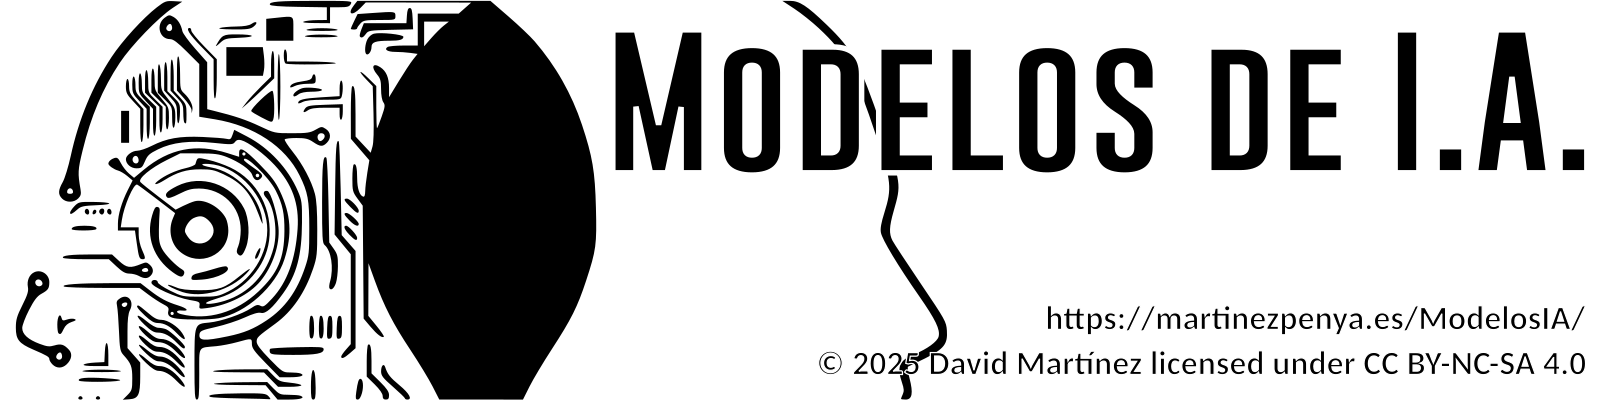
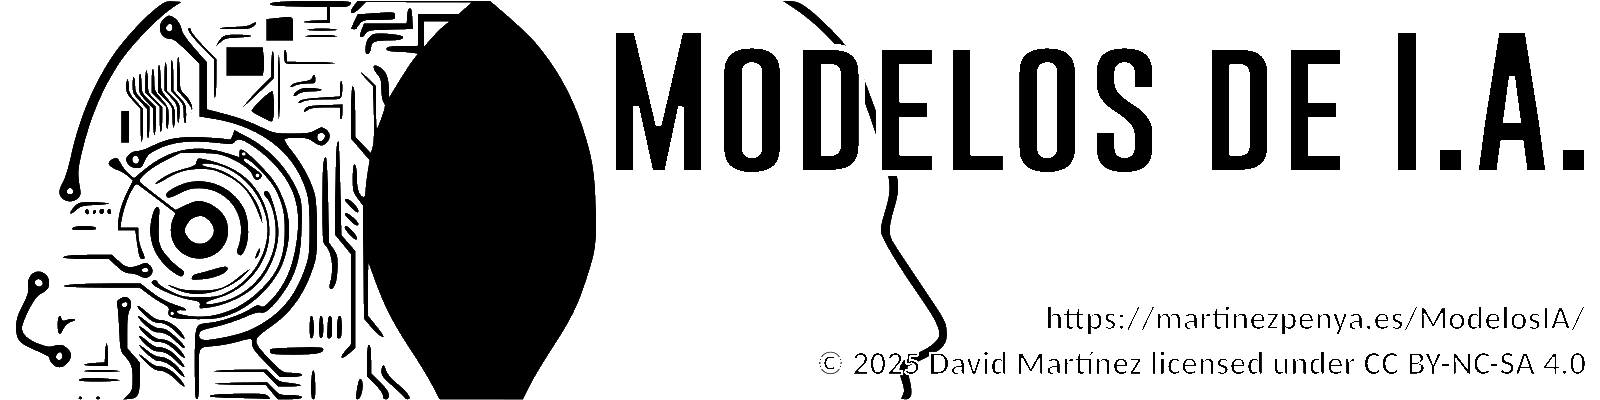
Actualizar fuentes.md, rediseñar sobremi.md y aclarar el header en modo oscuro
- fuentes.md: reorganizado por unidad (estaba desactualizado desde antes de
  las fusiones de UD03-UD06); añadido Claude Code como herramienta usada
  en la redacción y el control de calidad del módulo.
- sobremi.md: cabecera con foto y nombre juntos, centrados, en bloque
  horizontal; contacto en tarjetas (grid cards) en vez de lista suelta.
- portada.png: reborde blanco de 2px en las cabezas/circuito de fondo,
  igual que ya tenía el texto, para que se lean en modo oscuro.

Claude-Session: https://claude.ai/code/session_01ECLqWLySQwghUsa4U2kLha

diff --git a/docs/css/extra.css b/docs/css/extra.css
@@ -64,6 +64,37 @@ img {
         page-break-inside: avoid;
     }
 }
+
+/* Página "Sobre mí": bloque de cabecera centrado, foto a la izquierda del texto. */
+.profile-header {
+    display: flex;
+    flex-direction: row;
+    justify-content: center;
+    align-items: center;
+    gap: 1.5rem;
+    margin-bottom: 1.5rem;
+}
+
+.profile-text {
+    text-align: left;
+}
+
+.profile-header h2 {
+    margin-top: 0;
+    margin-bottom: 0.3rem;
+}
+
+.profile-header p {
+    margin: 0.2rem 0;
+}
+
+.profile-pic {
+    width: 160px;
+    height: auto;
+    border-radius: 12px;
+    box-shadow: 0 2px 10px rgba(0, 0, 0, 0.15);
+}
+
 /*
 :root {
     --md-primary-fg-color: #60102f;

diff --git a/docs/fuentes.md b/docs/fuentes.md
@@ -1,34 +1,142 @@
 # Fuentes de información
 
+Fuentes citadas a lo largo del módulo, agrupadas por unidad. Las generales se usan en más de una
+unidad o no son específicas de ninguna; cada bloque de unidad reproduce las referencias que ya
+aparecen al final de su página de teoría.
+
+## Generales del curso
+
 - [Wikipedia](https://es.wikipedia.org)
-
-- [GhatGPT](https://chat.openai.com)
-
+- [ChatGPT](https://chatgpt.com/)
+- [DeepSeek](https://www.deepseek.com/)
+- [Claude Code (Anthropic)](https://claude.com/claude-code) — usado en la redacción, investigación y
+  control de calidad de este módulo (fusión de contenidos, ejercicios, talleres, diapositivas y
+  scripts de verificación)
 - [Modelos de Inteligencia Artificial (Ed. Marcombo)](https://www.marcombo.com/modelos-de-inteligencia-artificial-9788426734419/)
-
-- https://iep.utm.edu/artificial-intelligence/
-
+- [Internet Encyclopedia of Philosophy · Artificial Intelligence](https://iep.utm.edu/artificial-intelligence/)
 - Materiales MIA curso MEC-20230524
-
-- https://www.gartner.com/en/newsroom/press-releases/2021-09-29-gartner-finds-33-percent-of-technology-providers-plan-to-invest-1-million-or-more-in-ai-within-two-years
-
-- https://rapidapi.com/blog/top-facial-recognition-apis/
-
-- https://www.sciencedirect.com/science/article/pii/S0212656720301463
-
-- [Models d'IA](https://lawer.github.io/mia/) de Carles Gonzalez està sotmés a la llicència: [Creative Commons Attribution-NonCommercial-ShareAlike 4.0 International 
+- [Gartner · previsión de inversión en IA (2021)](https://www.gartner.com/en/newsroom/press-releases/2021-09-29-gartner-finds-33-percent-of-technology-providers-plan-to-invest-1-million-or-more-in-ai-within-two-years)
+- [RapidAPI · Top Facial Recognition APIs](https://rapidapi.com/blog/top-facial-recognition-apis/)
+- [ScienceDirect, artículo S0212656720301463](https://www.sciencedirect.com/science/article/pii/S0212656720301463)
+- [Models d'IA](https://lawer.github.io/mia/) de Carles Gonzalez, sotmés a la llicència
+  [Creative Commons Attribution-NonCommercial-ShareAlike 4.0 International
   ![img](https://mirrors.creativecommons.org/presskit/icons/cc.svg){width=22}
   ![img](https://mirrors.creativecommons.org/presskit/icons/by.svg){width=22}
   ![img](https://mirrors.creativecommons.org/presskit/icons/nc.svg){width=22}
   ![img](https://mirrors.creativecommons.org/presskit/icons/sa.svg){width=22}](https://creativecommons.org/licenses/by-nc-sa/4.0/?ref=chooser-v1)
+- [JetBrains](https://www.jetbrains.com)
 
-- Introducción al Procesamiento del Lenguaje Natural (PLN) Ferran Pla 2017
+## UD00 — Presentación y Docker
 
-- [*Artificial Intelligence: A Modern Approach*, 4.ª edición](https://aima.cs.berkeley.edu/) — Stuart Russell y Peter Norvig (Pearson, 2021). El capítulo 26, *Robotics*, es la base de la parte teórica de la UD04.
+Documentación oficial de Docker:
 
-- https://www.jetbrains.com
+- [What is Docker?](https://docs.docker.com/get-started/overview/)
+- [What is a container?](https://docs.docker.com/get-started/docker-concepts/the-basics/what-is-a-container/)
+- [Dockerfile reference](https://docs.docker.com/reference/dockerfile/)
+- [Compose Quickstart](https://docs.docker.com/compose/gettingstarted/)
+- [Building best practices](https://docs.docker.com/build/building/best-practices/)
 
-- [ChatGPT](https://chatgpt.com/)
+Normativa y plataforma:
 
-- [DeepSeek](https://www.deepseek.com/)
+- [RD 279/2021](https://www.boe.es/eli/es/rd/2021/04/20/279) — currículo del curso de especialización
+- [Orden 8/2025 de la Comunitat Valenciana](https://dogv.gva.es/datos/2025/04/30/pdf/2025_13083_es.pdf) — evaluación
+- [Aules GVA](https://portal.edu.gva.es/aules/) — plataforma del centro
 
+## UD01 — Caracterización de sistemas de IA
+
+- [IBM · ¿Qué es la IA?](https://www.ibm.com/topics/artificial-intelligence)
+- [IBM · ¿Qué es el machine learning?](https://www.ibm.com/topics/machine-learning)
+- [IBM · ¿Qué es el PLN?](https://www.ibm.com/topics/natural-language-processing)
+- [scikit-learn · Aprendizaje supervisado](https://scikit-learn.org/stable/supervised_learning.html)
+- [Parlamento Europeo · ¿Qué es la IA y cómo se usa?](https://www.europarl.europa.eu/topics/en/article/20200827STO85804/artificial-intelligence-opportunities-and-risks)
+- [AI Act (UE 2024/1689)](https://www.boe.es/doue/2024/1689/L00001-00144.pdf)
+- [Russell y Norvig · AIMA (sitio oficial)](https://aima.cs.berkeley.edu/)
+- [Arend Hintze · «Understanding the four types of AI» (The Conversation, 2016)](https://theconversation.com/understanding-the-four-types-of-ai-from-reactive-robots-to-self-aware-beings-67616)
+- [Vaswani et al. · Attention Is All You Need (2017)](https://arxiv.org/abs/1706.03762)
+
+## UD02 — Modelos de IA y resolución de problemas
+
+- [Red Blob Games · A*](https://www.redblobgames.com/pathfinding/a-star/introduction.html)
+- [Wikipedia · A*](https://en.wikipedia.org/wiki/A*_search_algorithm)
+- [scikit-fuzzy (pythonhosted)](https://pythonhosted.org/scikit-fuzzy/)
+- [experta (readthedocs)](https://experta.readthedocs.io/)
+- [CLIPS](https://www.clipsrules.net/)
+- [IBM · RPA](https://www.ibm.com/think/topics/rpa)
+- [IBM · Automatización inteligente](https://www.ibm.com/think/topics/intelligent-automation)
+- [scikit-learn · Elegir el estimador](https://scikit-learn.org/stable/machine_learning_map.html)
+- [arXiv · Tree-based vs DL en tabulares](https://arxiv.org/abs/2207.08815)
+- [Robocode Tank Royale · documentación oficial](https://robocode-dev.github.io/tank-royale/)
+
+## UD03 — Procesamiento del lenguaje natural
+
+- Introducción al Procesamiento del Lenguaje Natural (PLN), Ferran Pla, 2017
+- [*Speech and Language Processing*](https://web.stanford.edu/~jurafsky/slp3/) — Jurafsky y Martin (acceso libre)
+- [*Introduction to Natural Language Processing*](https://mitpress.mit.edu/9780262042840/) — Eisenstein
+- [NLTK Book](https://www.nltk.org/book/) · [spaCy · Usage](https://spacy.io/usage) · [Hugging Face](https://huggingface.co/)
+- [Bender y Koller (2020), *Climbing towards NLU*](https://aclanthology.org/2020.acl-main.463/)
+- [Meta NLLB](https://ai.meta.com/research/no-language-left-behind/) · [Masakhane](https://www.masakhane.io/)
+- [Reglamento (UE) 2024/1689 · AI Act](https://www.boe.es/doue/2024/1689/L00001-00144.pdf) — considerando 53 y art. 5
+- [SQuAD](https://rajpurkar.github.io/SQuAD-explorer/) · [Penn Treebank POS tags](https://www.ling.upenn.edu/courses/Fall_2003/ling001/penn_treebank_pos.html)
+
+## UD04 — Robótica
+
+- [*Artificial Intelligence: A Modern Approach*, 4.ª ed.](https://aima.cs.berkeley.edu/), cap. 26 — Stuart Russell y Peter Norvig
+- [Models d'IA](https://lawer.github.io/mia/) — Carles Gonzalez (CC BY-NC-SA 4.0)
+- [IFR World Robotics](https://ifr.org/)
+- [roboticstoolbox-python](https://github.com/petercorke/robotics-toolbox-python) · [spatialmath-python](https://github.com/petercorke/spatialmath-python)
+- [AITK](https://github.com/ArtificialIntelligenceToolkit/aitk) · [OpenCV](https://docs.opencv.org/) · [NEAT-Python](https://neat-python.readthedocs.io/)
+- [Wikipedia · Parámetros de Denavit-Hartenberg](https://en.wikipedia.org/wiki/Denavit%E2%80%93Hartenberg_parameters) · [Wikipedia · SLAM](https://es.wikipedia.org/wiki/SLAM) · [Wikipedia · Localización de Monte Carlo](https://en.wikipedia.org/wiki/Monte_Carlo_localization)
+- [Universal Robots](https://www.universal-robots.com/) · [Webots](https://cyberbotics.com/) · [CoppeliaSim](https://www.coppeliarobotics.com/)
+
+## UD05 — Sistemas expertos y lógica difusa
+
+- [Wikipedia · Expert system](https://en.wikipedia.org/wiki/Expert_system)
+- [Wikipedia · MYCIN](https://en.wikipedia.org/wiki/MYCIN)
+- [Wikipedia · XCON](https://en.wikipedia.org/wiki/XCON)
+- [experta · readthedocs](https://experta.readthedocs.io/)
+- [CLIPS · clipsrules.net](https://www.clipsrules.net/)
+- [Drools / Apache KIE](https://www.drools.org/)
+- [Human-Learn](https://koaning.github.io/human-learn/index.html)
+- [imodels (FIGS)](https://github.com/csinva/imodels)
+- [skope-rules](https://github.com/scikit-learn-contrib/skope-rules)
+- [Wikipedia · Lógica difusa](https://es.wikipedia.org/wiki/L%C3%B3gica_difusa)
+- [Wikipedia · Fuzzy control system](https://en.wikipedia.org/wiki/Fuzzy_control_system)
+- [Wikipedia · PID controller](https://en.wikipedia.org/wiki/PID_controller)
+- [Modus Ponens](https://es.wikipedia.org/wiki/Modus_ponendo_ponens) · [Modus Tollens](https://es.wikipedia.org/wiki/Modus_tollendo_tollens)
+
+## UD06 — Riesgos, ética y legalidad de la IA
+
+**Normativa** (texto consolidado):
+
+- [RGPD · Reglamento (UE) 2016/679](https://www.boe.es/doue/2016/119/L00001-00088.pdf)
+- [AI Act · Reglamento (UE) 2024/1689](https://www.boe.es/doue/2024/1689/L00001-00144.pdf)
+- [LOPDGDD · Ley Orgánica 3/2018](https://www.boe.es/buscar/act.php?id=BOE-A-2018-16673)
+- [Ley 15/2022, de igualdad de trato y no discriminación](https://www.boe.es/eli/es/l/2022/07/12/15/con)
+- [Comisión Europea · marco regulador de la IA y calendario](https://digital-strategy.ec.europa.eu/en/policies/regulatory-framework-ai)
+
+**Guías y marcos éticos**:
+
+- [AEPD · Guía de privacidad desde el diseño](https://www.aepd.es/guias/guia-privacidad-desde-diseno.pdf)
+- [UNESCO · Recomendación sobre la ética de la IA (2021)](https://www.unesco.org/en/artificial-intelligence/recommendation-ethics)
+- [ACM Code of Ethics](https://www.acm.org/code-of-ethics)
+- [IEEE · Ethically Aligned Design](https://standards.ieee.org/initiatives/autonomous-intelligence-systems/)
+
+**Casos y estudios citados**:
+
+- [ProPublica · *Machine Bias* (COMPAS)](https://www.propublica.org/article/machine-bias-risk-assessments-in-criminal-sentencing)
+- [Gender Shades (MIT Media Lab)](https://www.media.mit.edu/projects/gender-shades/overview/)
+- [Obermeyer et al. · *Dissecting racial bias in an algorithm…* (Science, 2019)](https://pubmed.ncbi.nlm.nih.gov/31649194/)
+- [Frey y Osborne · *The Future of Employment*](https://oms-www.files.svdcdn.com/production/downloads/academic/The_Future_of_Employment.pdf)
+- [Human Rights Watch · armas autónomas y el plazo de 2026](https://www.hrw.org/news/2025/05/21/un-start-talks-treaty-ban-killer-robots)
+- [UNODA · Grupo de Expertos Gubernamentales sobre LAWS](https://disarmament.unoda.org/en/updates/briefing-chair-ccw-gge-laws-margins-first-committee)
+
+**Herramientas**:
+
+- [Fairlearn](https://fairlearn.org/) · [AI Fairness 360 (IBM)](https://aif360.res.ibm.com/)
+
+**Bibliografía de referencia**: Russell, S. y Norvig, P., *Artificial Intelligence: A Modern
+Approach*, 4.ª ed., Pearson, 2021 — capítulo 27, «Philosophy, Ethics, and Safety of AI», del que
+provienen los bloques de armas autónomas, vigilancia y reidentificación, equidad y parcialidad,
+confianza y transparencia, futuro del trabajo, derechos de los robots y seguridad de la IA. Los
+datos numéricos de esos bloques se han actualizado y verificado para este curso; cuando no ha sido
+posible, se indica el año del dato.

diff --git a/docs/sobremi.md b/docs/sobremi.md
@@ -1,26 +1,65 @@
-![Jo](assets/jo.png){align=right}
+# 👋 Sobre mí
 
-# 👋 Sobre mí...
+<div class="profile-header" markdown>
 
-## 🧑💻 David Martinez Peña
+![David Martínez Peña](assets/jo.png){ .profile-pic }
 
-## 📬 Contacto:
+<div class="profile-text" markdown>
+## David Martínez Peña
 
-![Centre](assets/centre.png){align=right width=250}
+**Profesor de Secundaria**, especialidad de Informática.
 
-- 📧 [d.martinezpena@edu.gva.es](mailto:d.martinezpena@edu.gva.es)
-- ▶ [Youtube](https://youtube.com/@martinezpenya)
-- 💼 [LinkedIn](https://linkedin.com/in/martinezpenya)
-- 🐙 [GitHub](https://github.com/martinezpenya)
+🏫 Actualmente con destino en [IES Eduardo Primo Marqués](http://www.ieseduardoprimo.es) de Carlet.
+</div>
 
-![Departament](assets/dep.png){align=right}
+</div>
 
-👨🏫 Profesor de Secundaria, especialidad de Informática.
+## 📬 Contacto
 
-🏫 Actualmente con destino en [IES Eduardo Primo Marqués](http://www.ieseduardoprimo.es) de Carlet
+<div class="grid cards" markdown>
 
-[🤖 Modelos de Inteligencia Artificial](https://martinezpenya.es/ModelosIA/) © 2025   by  [David Martínez ](https://github.com/martinezpenya) is licensed under [CC BY-NC-SA 4.0 
+-   **📧 Email**
+
+    ---
+
+    [d.martinezpena@edu.gva.es](mailto:d.martinezpena@edu.gva.es)
+
+-   **▶ YouTube**
+
+    ---
+
+    [youtube.com/@martinezpenya](https://youtube.com/@martinezpenya)
+
+-   **💼 LinkedIn**
+
+    ---
+
+    [linkedin.com/in/martinezpenya](https://linkedin.com/in/martinezpenya)
+
+-   **🐙 GitHub**
+
+    ---
+
+    [github.com/martinezpenya](https://github.com/martinezpenya)
+
+</div>
+
+---
+
+<p align="center">
+<img src="assets/dep.png" alt="Departament" width="150">
+&nbsp;&nbsp;&nbsp;
+<img src="assets/centre.png" alt="Centre" width="240">
+</p>
+
+---
+
+<p align="center" markdown>
+[🤖 Modelos de Inteligencia Artificial](https://martinezpenya.es/ModelosIA/) © 2025 by
+[David Martínez](https://github.com/martinezpenya) is licensed under
+[CC BY-NC-SA 4.0
 ![img](https://mirrors.creativecommons.org/presskit/icons/cc.svg){width=22}
 ![img](https://mirrors.creativecommons.org/presskit/icons/by.svg){width=22}
 ![img](https://mirrors.creativecommons.org/presskit/icons/nc.svg){width=22}
 ![img](https://mirrors.creativecommons.org/presskit/icons/sa.svg){width=22}](https://creativecommons.org/licenses/by-nc-sa/4.0/?ref=chooser-v1)
+</p>
